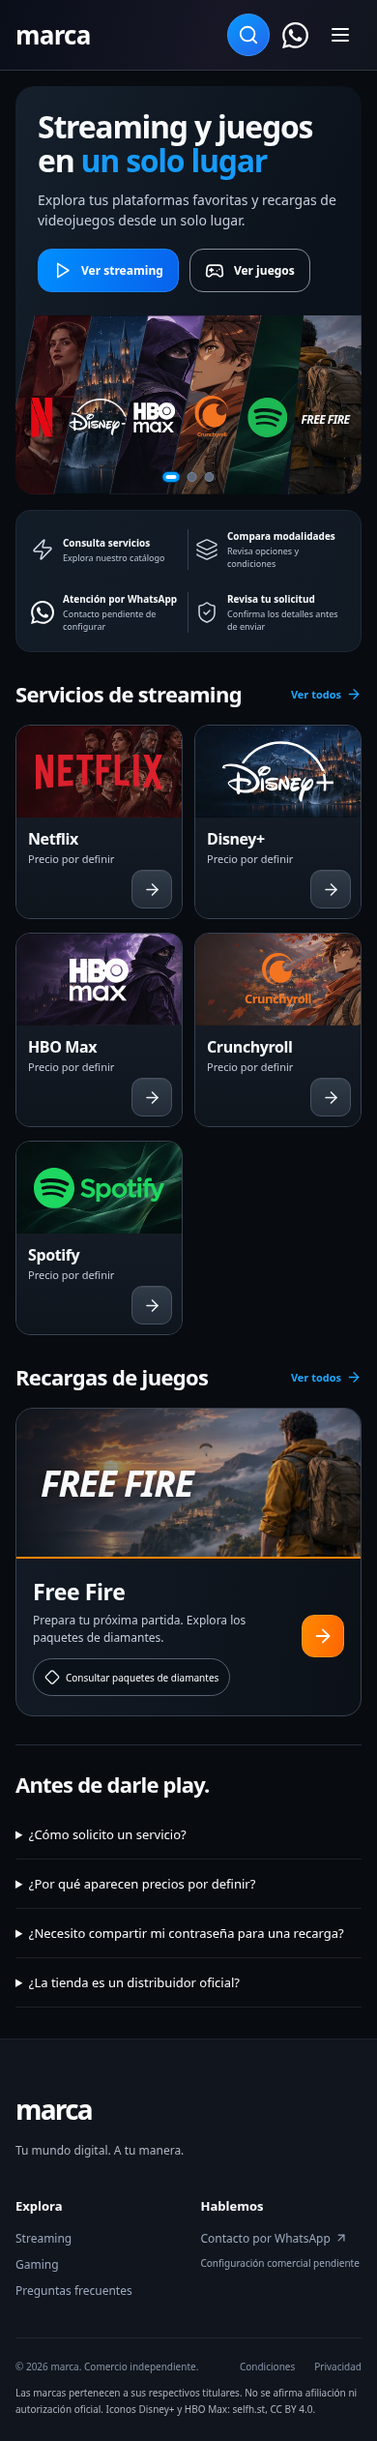
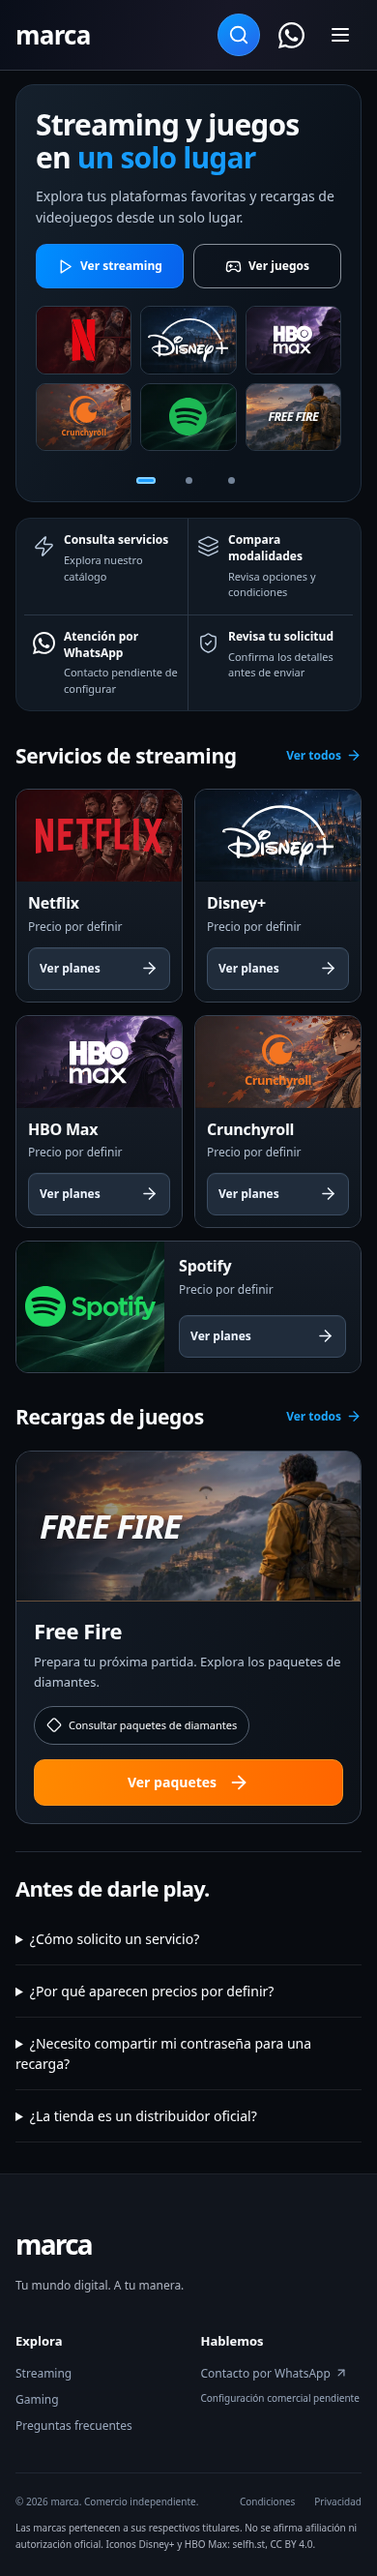
Mejorar lectura y controles táctiles de la vista móvil

diff --git a/src/mobile.css b/src/mobile.css
@@ -1,0 +1,90 @@
+.home-card-action-label{display:none}
+
+/* A mobile composition rather than a compressed desktop storefront. */
+@media(max-width:760px){
+ .home-page{width:calc(100% - 32px);padding-top:14px}
+ .home-hero{padding:24px 20px 0;gap:18px;border:1px solid #223040;border-radius:19px}
+ .home-hero h1{font-size:clamp(27px,7.7vw,32px);line-height:1.13;letter-spacing:-.85px;margin-bottom:12px}
+ .home-hero-copy>p{font-size:14px;line-height:1.55;margin-bottom:17px;color:#bac6d5}
+ .home-hero-actions{display:grid;grid-template-columns:repeat(2,minmax(0,1fr));gap:10px}
+ .home-hero-actions .button{width:100%;height:auto;min-height:46px;padding:11px 8px;font-size:12px;line-height:1.3;white-space:normal;text-align:center;gap:7px;border-radius:11px}
+ .home-hero-actions .button svg{width:17px;height:17px}
+ .home-platforms,.home-slide-2 .home-platforms{position:relative;inset:auto;display:grid;grid-template-columns:repeat(3,minmax(0,1fr));grid-template-rows:repeat(2,minmax(0,1fr));gap:9px;margin:0;width:100%;max-width:none;height:clamp(150px,38vw,250px);min-height:150px;padding:0;overflow:visible;transform:none}
+ .home-platform,.home-platform:nth-child(n),.home-platform.platform-free-fire{width:100%;height:100%;max-width:none;min-width:0;margin:0;transform:none;clip-path:none;border:1px solid #53667b70;border-radius:10px;overflow:hidden}
+ .home-panel-art,.platform-free-fire .home-panel-art{inset:0;transform:none;background-size:auto 200%}
+ .home-platform .home-identity{transform:none;margin:0;gap:2px}
+ .home-platform .product-logo{height:38px;width:67%;filter:none}
+ .home-platform .identity-netflix .product-logo{height:43px;width:49%}
+ .home-platform .identity-disney .product-logo{height:83px;width:100%}
+ .home-platform .identity-max .product-logo{height:40px;width:67%}
+ .home-platform .identity-crunchyroll .product-logo{height:30px;width:48%}
+ .home-platform .identity-spotify .product-logo{height:39px;width:60%}
+ .home-platform .home-service-name{font-size:8px;letter-spacing:0}
+ .home-platform.platform-free-fire .home-game-name{transform:none;align-self:center;margin:0;font-size:clamp(11px,3.2vw,15px);letter-spacing:-.55px}
+ .home-slide-controls{position:static;inset:auto;transform:none;align-self:center;min-height:44px;margin:-10px 0 0;padding:0;gap:0}
+ .home-slide-controls button,.home-slide-controls button[aria-pressed=true]{display:grid;place-items:center;width:44px;height:44px;border:0;border-radius:9px;background:transparent;box-shadow:none;padding:0}
+ .home-slide-controls button:before{display:none}
+ .home-slide-controls button:after{content:'';display:block;width:7px;height:7px;border-radius:8px;background:#738398;transition:width .18s,background .18s}
+ .home-slide-controls button[aria-pressed=true]:after{width:20px;background:#199bff;box-shadow:inset 0 0 0 2px #85d0ff}
+ .home-process{padding:0 8px;margin-top:16px;gap:0;border-radius:15px;background:#111923}
+ .home-process-item{padding:14px 9px;min-height:78px;align-items:flex-start;gap:9px;justify-content:flex-start}
+ .home-process-item:after{display:none}
+ .home-process-item:nth-child(odd){border-right:1px solid #2b3746}
+ .home-process-item:nth-child(-n+2){border-bottom:1px solid #2b3746}
+ .home-process-item strong{font-size:12px;line-height:1.4;margin-bottom:4px}
+ .home-process-item span{font-size:11px;line-height:1.5;color:#aebccc}
+ .home-process-item>svg,.home-process-item>.whatsapp-icon{width:23px;height:25px;flex-shrink:0;margin-top:2px;color:#c0d0e3}
+ .home-section-heading{margin:23px 0 13px;gap:10px}
+ .home-section-heading h2{font-size:clamp(19px,5.4vw,22px);line-height:1.3;letter-spacing:-.4px}
+ .home-section-heading>a{font-size:12px;min-height:44px;gap:5px;flex-shrink:0}
+ .home-section-heading>a svg{width:16px}
+ .home-streaming-grid{gap:13px 12px;align-items:stretch}
+ .home-page .home-service-card{border-radius:13px}
+ .home-cover{aspect-ratio:1.8}
+ .home-card-details{padding:12px;min-height:0;display:flex;flex-direction:column;gap:0}
+ .home-card-details h3{font-size:16px;line-height:1.3;letter-spacing:-.25px;margin-bottom:5px}
+ .home-card-details>p{font-size:12px;line-height:1.45;margin:0 0 12px;color:#afbdce}
+ .home-card-action{position:static;display:flex;justify-content:space-between;align-items:center;gap:8px;width:100%;height:auto;min-height:44px;padding:10px 11px;margin-top:auto;border-radius:9px;background:#202c3b;border-color:#3c4e63;color:#edf4ff;font-size:12px;font-weight:600}
+ .home-card-action-label{display:inline}
+ .home-streaming-grid>.home-service-card:last-child:nth-child(odd){grid-column:1/-1;display:grid;grid-template-columns:43% minmax(0,1fr)}
+ .home-streaming-grid>.home-service-card:last-child:nth-child(odd) .home-cover{aspect-ratio:auto;height:100%;min-height:135px;background-size:auto 200%}
+ .home-streaming-grid>.home-service-card:last-child:nth-child(odd) .home-card-details{padding:15px}
+ .home-page .home-game-banner{grid-template-columns:minmax(0,1fr);gap:0;padding:0 18px 18px;border-radius:16px}
+ .home-game-art{grid-column:auto;margin:0 -18px 17px;height:155px;min-height:155px;padding:22px 24px;border-bottom:1px solid #68503b}
+ .home-game-art .home-game-name{font-size:34px;letter-spacing:-1px}
+ .home-game-copy{padding:0}
+ .home-game-copy h3{font-size:22px;line-height:1.25;margin-bottom:8px}
+ .home-game-copy p{font-size:13px;line-height:1.6;color:#b8c5d5;max-width:none;margin-bottom:14px}
+ .home-game-packages{font-size:11px;line-height:1.4;min-height:40px;padding:9px 12px;gap:7px;max-width:100%}
+ .home-game-action{display:flex;width:100%;height:auto;min-height:48px;margin-top:15px;padding:12px 18px;font-size:14px;border-radius:11px;justify-content:center;gap:12px}
+ .home-game-action span{display:inline}
+ .home-page .faq{margin-top:28px;padding-top:23px}
+ .home-page .faq h2{font-size:22px;line-height:1.3}
+ .home-page .faq summary{font-size:14px;line-height:1.5;min-height:52px;padding:16px 0}
+ .home-page .faq details p{font-size:13px;line-height:1.7}
+ .store-header .contact{width:44px;height:44px}
+ .nav-actions{gap:7px}
+ .store-header .nav{gap:10px}
+}
+@media(max-width:360px){
+ .home-hero{padding:22px 17px 0}
+ .home-hero-actions .button{font-size:11px;gap:6px;padding:11px 7px}
+ .home-process{padding:0 5px}
+ .home-process-item{padding:12px 6px;gap:7px}
+ .home-process-item strong{font-size:11px}
+ .home-process-item span{font-size:10px}
+ .home-process-item>svg,.home-process-item>.whatsapp-icon{width:20px}
+ .home-card-details{padding:11px}
+ .home-card-details h3{font-size:15px}
+ .home-card-details>p{font-size:11px}
+ .home-card-action{padding:10px 8px;font-size:11px}
+ .home-game-packages{font-size:10px}
+}
+@media(max-width:760px){
+ /* Center each tile inside its own scene, without leaking the adjacent artwork. */
+ .home-panel-art.art-netflix{background-position:5% top}
+ .home-panel-art.art-disney{background-position:50% top}
+ .home-panel-art.art-max{background-position:95% top}
+ .home-panel-art.art-crunchyroll{background-position:5% bottom}
+ .home-panel-art.art-spotify{background-position:50% bottom}
+}

diff --git a/src/HomeDashboard.tsx b/src/HomeDashboard.tsx
@@ -34,7 +34,7 @@ function HomeServiceCard({p}:{p:Product}){
   </a>
   <div className="home-card-details"><h3><a href={`#/producto/${p.id}`}>{p.name}</a></h3>
    <p><span>{p.variants.length} modalidades</span><span>{prices.length?`Desde ${money(Math.min(...prices))}`:'Precio por definir'}</span></p>
-   <a className="home-card-action" href={`#/producto/${p.id}`} aria-label={`${action} de ${p.name}`}><ArrowRight size={19}/></a>
+   <a className="home-card-action" href={`#/producto/${p.id}`} aria-label={`${action} de ${p.name}`}><span className="home-card-action-label">{action}</span><ArrowRight size={19}/></a>
   </div>
  </article>;
 }

diff --git a/src/main.tsx b/src/main.tsx
@@ -10,6 +10,7 @@ import {WhatsAppIcon} from './WhatsAppIcon';
 import './style.css';
 import './home.css';
 import './navigation.css';
+import './mobile.css';
 const products=catalog.filter(p=>p.active);
 function App(){
  const [route,setRoute]=useState(location.hash.slice(1)||'/');const [query,setQuery]=useState('');const [menu,setMenu]=useState(false);const [selected,setSelected]=useState('');const [duration,setDuration]=useState('');const [availability,setAvailability]=useState('');const [sort,setSort]=useState('name');const [max,setMax]=useState('');

diff --git a/README.md b/README.md
@@ -51,7 +51,7 @@ Inicio sigue la referencia del dashboard aportada por el usuario: hero compacto 
 
 La navegación sigue la última referencia aprobada: se conserva «marca» sin símbolo, con enlaces centrados, subrayado activo y búsqueda circular azul. Los filtros y las páginas de Streaming y Juegos mantienen su funcionamiento. `src/HomeDashboard.tsx` organiza el contenido de Inicio; `src/home.css` limita sus estilos a esa página. Las tarjetas exclusivas de Inicio se definen en `HomeDashboard.tsx`; `src/ProductCard.tsx` conserva las tarjetas de las otras páginas. El catálogo y la lógica comercial no cambian. Las preguntas frecuentes siguen al final.
 
-Inicio utiliza un atlas WebP con seis ilustraciones originales; las otras páginas conservan los SVG de `public/art/`. Estos recursos no son material oficial de las plataformas. El hero usa seis paneles diagonales continuos y tres indicadores que cambian su contenido y enlaces. Consulta la [comparación visual y validación](docs/FIDELIDAD-INICIO.md) y la [procedencia de las ilustraciones](public/art/home/README.md).
+Inicio utiliza un atlas WebP con seis ilustraciones originales; las otras páginas conservan los SVG de `public/art/`. Estos recursos no son material oficial de las plataformas. El hero usa seis paneles diagonales continuos en escritorio y una composición de dos filas en móvil, con tres indicadores que cambian su contenido y enlaces. `src/mobile.css` mejora la legibilidad y las áreas de pulsación sin cambiar la presentación de escritorio. Consulta la [comparación visual y validación](docs/FIDELIDAD-INICIO.md) y la [procedencia de las ilustraciones](public/art/home/README.md).
 
 ## Capturas reales
 

diff --git a/docs/REFERENCIA-INICIO-ACTUAL.md b/docs/REFERENCIA-INICIO-ACTUAL.md
@@ -18,3 +18,7 @@ Comparación visual realizada abriendo capturas de escritorio y móvil. Se igual
 Validación: compilación de producción, 6 pruebas comerciales, 12 pruebas de navegador y capturas con imágenes cargadas, sin errores HTTP/JavaScript ni desbordamiento entre 320 y 1448 px. Los indicadores del hero se prueban en escritorio y móvil.
 
 Archivos principales: `src/HomeDashboard.tsx`, `src/home.css`, `src/navigation.css`, `src/WhatsAppIcon.tsx`, cabecera de `src/main.tsx`, ilustraciones, logotipo de WhatsApp, capturas y pruebas.
+
+## Adaptación móvil
+
+Inicio utiliza dos filas de plataformas, tarjetas con botones de texto, una última tarjeta horizontal para evitar la celda vacía, franja informativa con texto ampliado y un botón de Free Fire a todo el ancho. Los indicadores y acciones principales tienen zonas de pulsación de al menos 44 px. El diseño de escritorio se comprobó idéntico mediante comparación de las capturas antes/después. Los ajustes se concentran en `src/mobile.css`; se conserva la navegación y la lógica comercial.
